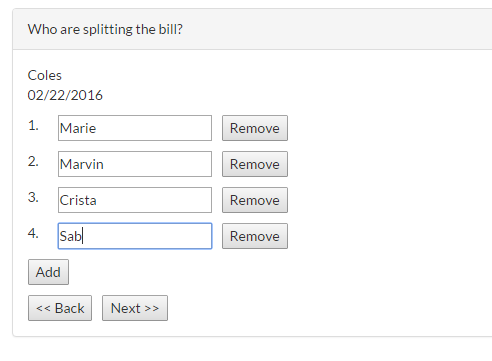
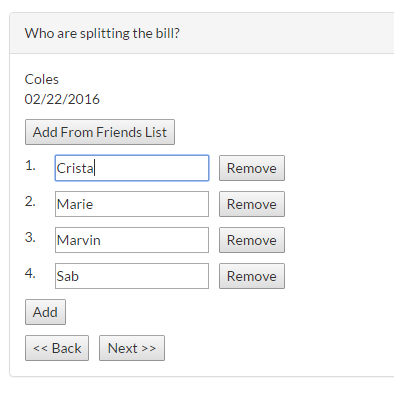
Added tutorial entry for Friends

Changed region(s): [[0.0305, 0.1828, 0.731, 0.9446], [0.0609, 0.0609, 0.4569, 0.1219]]

diff --git a/public/css/style.css b/public/css/style.css
@@ -414,6 +414,16 @@ label {
     content: url('../img/Tutorial12.PNG');
 }
 
+#tutorial13 {
+    max-width: 100%;
+    content: url('../img/Tutorial13.PNG');
+}
+
+#tutorial14 {
+    max-width: 100%;
+    content: url('../img/Tutorial13.PNG');
+}
+
 @media screen and (max-width: 430px) {
     input.app-remove, input.app-show{
         margin-left: 30px;

diff --git a/resources/views/tutorial.blade.php b/resources/views/tutorial.blade.php
@@ -53,6 +53,7 @@
                             <li><a href="#servicechargeexplained">What is the service charge?</a></li>
                             <li><a href="#taggingexplained">How does tagging work?</a></li>
                             <li><a href="#sendingnotification">How do I an send email notification to my friends? What does the notification contain?</a></li>
+                            <li><a href="#addfriends">How do I add friends?</a></li>
                         </ol>
                     </div>
                 </div>
@@ -159,6 +160,8 @@
                             <li>
                                 Enter the names of the people sharing the bill, including yourself if you are part of the bill. You don't have to put yourself if you just paid on behalf of the group, but you did not really consume anything.
                                 <div><img id="tutorial05"></div>
+                                You can add friends from your Friends List. In this case, your friends will be tagged automatically. However, you can still add people that are not saved in your Friends List, then you just have to tag them later. <a href="#taggingexplained">(How does tagging work?)</a> To include your friends in the list, click on "Add From Friends List", then check the names.
+                                <div><img id="tutorial14"></div>
                             </li>
                             <li>
                                 Enter the items bought and their corresponding prices. Include a service charge if applicable. <a href="#servicechargeexplained">(What is the service charge?)</a>
@@ -299,6 +302,22 @@
                         <p>To send an email notification, just check the Send Notification box beside the name of the person in the Tag page, and click on Save & Send.</p>
                         <p>The notification contains details of the transaction and to whom the person should pay the amount.</p>
                         <div><img id="tutorial12"></div>
+                        <a href="#top">Back to Top</a>
+                    </div>
+                </div>
+            </div>
+        </div>
+    </div>
+
+    <div class="container">
+        <div class="row">
+            <div class="col-md-10 col-md-offset-1">
+                <div class="panel panel-default">
+                    <div class="panel-heading" id="addfriends">How do I add friends?</div>
+                    <div class="panel-body">
+                        <p>To add friends, click on Friends found on the menu bar.</p>
+                        <p>Just type in the name and email address at the designated textboxes. You should use unique names, but you can save a single email address under different names.</p>
+                        <div><img id="tutorial13"></div>
                         <a href="#top">Back to Top</a>
                     </div>
                 </div>
